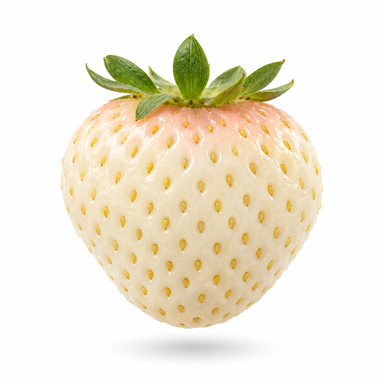
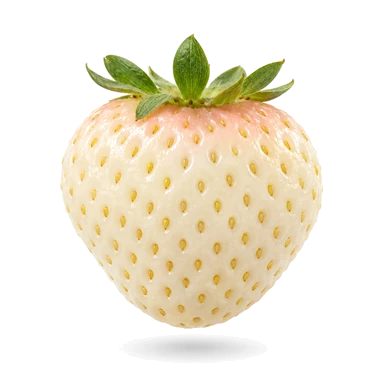
いちごの元画像にアルファを持たせて、さらに小さく（690KB → 115KB）
白抜きのシルエットは元のPNGと同じ判定でアルファに焼き込み、
RGBだけ非可逆にした。シルエットはアルファが決めるので、輪郭は変わらない。

diff --git a/index.html b/index.html
@@ -39,7 +39,7 @@
   <div id="toast"></div>
 </div>
 <script src="data.js?v=120"></script>
-<script src="field.js?v=120"></script>
+<script src="field.js?v=121"></script>
 <script src="app.js?v=120"></script>
 </body>
 </html>

diff --git a/zukan.html b/zukan.html
@@ -17,7 +17,7 @@
   <div id="toast"></div>
 </div>
 <script src="data.js?v=120"></script>
-<script src="field.js?v=120"></script>
+<script src="field.js?v=121"></script>
 <script src="zukan.js?v=2"></script>
 </body>
 </html>
